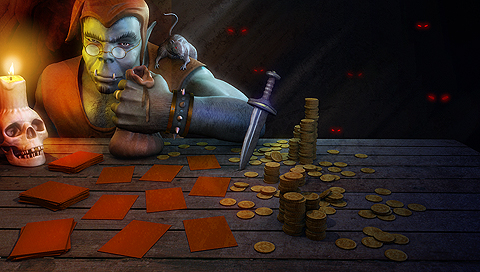
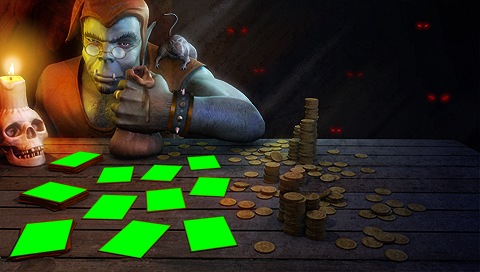
Jeck - Please review. Shop antialiasing, multicolored card recieves gold texture.  * Moved shop text ("press square for other cards") etc, to ShopItems, so they rendered properly (all in one place, after AA)  * The AA is really more a proof of concept than anything else. To do it properly I'd need a

diff --git a/projects/mtg/src/CardGui.cpp b/projects/mtg/src/CardGui.cpp
@@ -115,17 +115,28 @@ void CardGui::Render()
 
 JQuad * CardGui::alternateThumbQuad(MTGCard * card){
   JQuad * q;
-  switch(card->getColor())
-    {
-    case Constants::MTG_COLOR_ARTIFACT  : q = resources.RetrieveTempQuad("artifact_thumb.jpg");break;
-    case Constants::MTG_COLOR_GREEN: q = resources.RetrieveTempQuad("green_thumb.jpg");break;
-    case Constants::MTG_COLOR_BLUE : q = resources.RetrieveTempQuad("blue_thumb.jpg");break;
-    case Constants::MTG_COLOR_RED  : q = resources.RetrieveTempQuad("red_thumb.jpg");break;
-    case Constants::MTG_COLOR_BLACK: q = resources.RetrieveTempQuad("black_thumb.jpg");break;
-    case Constants::MTG_COLOR_WHITE: q = resources.RetrieveTempQuad("white_thumb.jpg");break;
-    case Constants::MTG_COLOR_LAND  : q = resources.RetrieveTempQuad("land_thumb.jpg");break;
-    default: q = resources.RetrieveTempQuad("black_thumb.jpg");break;
-    }
+  int nb_colors = 0;
+  for(int i=0;i<Constants::MTG_NB_COLORS;i++){
+    if(card->colors[i])
+      nb_colors++;
+  }
+
+  if(nb_colors > 1){
+    q = resources.RetrieveTempQuad("gold_thumb.jpg");
+  }
+  else{
+    switch(card->getColor())
+      {
+      case Constants::MTG_COLOR_ARTIFACT  : q = resources.RetrieveTempQuad("artifact_thumb.jpg");break;
+      case Constants::MTG_COLOR_GREEN: q = resources.RetrieveTempQuad("green_thumb.jpg");break;
+      case Constants::MTG_COLOR_BLUE : q = resources.RetrieveTempQuad("blue_thumb.jpg");break;
+      case Constants::MTG_COLOR_RED  : q = resources.RetrieveTempQuad("red_thumb.jpg");break;
+      case Constants::MTG_COLOR_BLACK: q = resources.RetrieveTempQuad("black_thumb.jpg");break;
+      case Constants::MTG_COLOR_WHITE: q = resources.RetrieveTempQuad("white_thumb.jpg");break;
+      case Constants::MTG_COLOR_LAND  : q = resources.RetrieveTempQuad("land_thumb.jpg");break;
+      default: q = resources.RetrieveTempQuad("gold_thumb.jpg");break;
+      }
+  }
   if(q && q->mTex)
     q->SetHotSpot(q->mTex->mWidth/2,q->mTex->mHeight/2);
   return q;
@@ -135,17 +146,28 @@ void CardGui::alternateRender(MTGCard * card, const Pos& pos){
   // Draw the "unknown" card model
   JRenderer * renderer = JRenderer::GetInstance();
   JQuad * q;
-  switch(card->getColor())
-    {
-    case Constants::MTG_COLOR_ARTIFACT: q = resources.RetrieveTempQuad("artifact.jpg");break;
-    case Constants::MTG_COLOR_GREEN: q = resources.RetrieveTempQuad("green.jpg");break;
-    case Constants::MTG_COLOR_BLUE : q = resources.RetrieveTempQuad("blue.jpg");break;
-    case Constants::MTG_COLOR_RED  : q = resources.RetrieveTempQuad("red.jpg");break;
-    case Constants::MTG_COLOR_BLACK: q = resources.RetrieveTempQuad("black.jpg");break;
-    case Constants::MTG_COLOR_WHITE: q = resources.RetrieveTempQuad("white.jpg");break;
-    case Constants::MTG_COLOR_LAND: q = resources.RetrieveTempQuad("land.jpg");break;
-    default: q = resources.RetrieveTempQuad("black.jpg");break;
-    }
+  int nb_colors = 0;
+  for(int i=0;i<Constants::MTG_NB_COLORS;i++){
+    if(card->colors[i])
+      nb_colors++;
+  }
+
+  if(nb_colors > 1){
+    q = resources.RetrieveTempQuad("gold.jpg");
+  }
+  else{
+    switch(card->getColor())
+      {
+      case Constants::MTG_COLOR_ARTIFACT: q = resources.RetrieveTempQuad("artifact.jpg");break;
+      case Constants::MTG_COLOR_GREEN: q = resources.RetrieveTempQuad("green.jpg");break;
+      case Constants::MTG_COLOR_BLUE : q = resources.RetrieveTempQuad("blue.jpg");break;
+      case Constants::MTG_COLOR_RED  : q = resources.RetrieveTempQuad("red.jpg");break;
+      case Constants::MTG_COLOR_BLACK: q = resources.RetrieveTempQuad("black.jpg");break;
+      case Constants::MTG_COLOR_WHITE: q = resources.RetrieveTempQuad("white.jpg");break;
+      case Constants::MTG_COLOR_LAND: q = resources.RetrieveTempQuad("land.jpg");break;
+      default: q = resources.RetrieveTempQuad("gold.jpg");break;
+      }
+  }
   if(q && q->mTex){
    q->SetHotSpot(q->mTex->mWidth/2,q->mTex->mHeight/2);
 

diff --git a/projects/mtg/src/ShopItem.cpp b/projects/mtg/src/ShopItem.cpp
@@ -8,17 +8,17 @@
 
 
 
-  float ShopItems::_x1[] = { 79, 20, 27,103,154,187,102,145,199,133,183};
-  float ShopItems::_y1[] = {150,193,222,167,164,156,195,190,176,220,220};
+  float ShopItems::_x1[] = { 79, 19, 27,103,154,187,102,144,198,133,183};
+  float ShopItems::_y1[] = {150,194,222,167,164,156,195,190,175,220,220};
 
-  float ShopItems::_x2[] = {103, 49, 73,135,183,213,138,181,231,171,225};
-  float ShopItems::_y2[] = {155,180,218,166,166,154,195,186,177,225,216};
+  float ShopItems::_x2[] = {103, 48, 74,135,183,215,138,181,231,171,225};
+  float ShopItems::_y2[] = {155,179,218,165,166,155,195,186,177,225,216};
 
-  float ShopItems::_x3[] = { 48, 60, 10, 96,139,190, 81,146,189, 98,191};
-  float ShopItems::_y3[] = {163,202,255,183,180,170,219,212,195,250,251};
+  float ShopItems::_x3[] = { 48, 61, 9, 96,139,190, 81,146,187, 97,191};
+  float ShopItems::_y3[] = {164,205,257,184,180,170,219,212,195,251,252};
 
-  float ShopItems::_x4[] = { 74, 88, 64,131,171,221,123,187,225,141,237};
-  float ShopItems::_y4[] = {167,187,248,182,182,168,219,208,196,258,245};
+  float ShopItems::_x4[] = { 76, 90, 65,131,171,221,123,187,225,141,237};
+  float ShopItems::_y4[] = {169,188,250,182,182,168,220,208,198,259,245};
 
 
 ShopItem::ShopItem(int id, JLBFont *font, char* text, JQuad * _quad,JQuad * _thumb,  float _xy[], bool hasFocus, int _price): JGuiObject(id), mFont(font), mText(text), quad(_quad), thumb(_thumb), price(_price)
@@ -173,7 +173,6 @@ void ShopItem::Render(){
       if (card) CardGui::alternateRender(card,Pos(SCREEN_WIDTH - 105,SCREEN_HEIGHT/2 - 5,0.9f* 285/250, 0,255));
 
     }
-    mFont->DrawString(mText.c_str(),  SCREEN_WIDTH/2 - 50,  SCREEN_HEIGHT - 16,JGETEXT_CENTER);
   }
 }
 
@@ -238,6 +237,10 @@ ShopItems::ShopItems(int id, JGuiListener* listener, JLBFont* font, int x, int y
   };
   myCollection = 	 NEW DeckDataWrapper(NEW MTGDeck(options.profileFile(PLAYER_COLLECTION).c_str(), _collection));
   showCardList = true;
+
+  mBgAA = resources.RetrieveQuad("shop_aliasing.png");
+  if(mBgAA)
+    mBgAA->SetTextureRect(0,0,250,120); 
 }
 
 
@@ -296,6 +299,13 @@ void ShopItems::Update(float dt){
 
 void ShopItems::Render(){
   JGuiController::Render();
+  JRenderer * r = JRenderer::GetInstance(); 
+  
+  if (display) display->Render();
+
+  if (mBgAA) 
+    r->RenderQuad(mBgAA,0,SCREEN_HEIGHT-128);
+
   if (showPriceDialog==-1){
 
   }else{
@@ -303,16 +313,29 @@ void ShopItems::Render(){
       dialog->Render();
     }
   }
+
+  mFont->SetColor(ARGB(255,255,255,255));
+  char c[4096];
+  r->FillRect(0,SCREEN_HEIGHT-17,SCREEN_WIDTH,17,ARGB(128,0,0,0));
+  sprintf(c, _("[]:other cards /\\:list").c_str());
+  unsigned int len = 4 + mFont->GetStringWidth(c);
+  mFont->DrawString(c,SCREEN_WIDTH-len,SCREEN_HEIGHT-14);
+
   char credits[512];
   sprintf(credits,_("credits: %i").c_str(), playerdata->credits);
   mFont->SetColor(ARGB(200,0,0,0));
-  mFont->DrawString(credits, 5, SCREEN_HEIGHT - 13);
+  mFont->DrawString(credits, 5, SCREEN_HEIGHT - 12);
   mFont->SetColor(ARGB(255,255,255,255));
-  mFont->DrawString(credits, 5, SCREEN_HEIGHT - 15);
-  if (display) display->Render();
+  mFont->DrawString(credits, 5, SCREEN_HEIGHT - 14);
+  
+  if(mCurr >= 0){
+    mFont->SetColor(ARGB(255,255,255,0));
+    ShopItem * item = ((ShopItem *)mObjects[mCurr]);
+    mFont->DrawString(item->mText.c_str(),  SCREEN_WIDTH/2 - 50,  SCREEN_HEIGHT - 14,JGETEXT_CENTER);
+    mFont->SetColor(ARGB(255,255,255,255));
+  }
 
   if (showCardList){
-    JRenderer * r = JRenderer::GetInstance(); 
     r->FillRoundRect(290,5, 160, mCount * 20 + 15,5,ARGB(200,0,0,0));
    
     for (int i = 0; i< mCount; ++i){
@@ -448,6 +471,7 @@ ShopItems::~ShopItems(){
   SAFE_DELETE(dialog);
   safeDeleteDisplay();
   SAFE_DELETE(myCollection);
+  resources.Release(mBgAA);
 }
 
 ostream& ShopItem::toString(ostream& out) const

diff --git a/projects/mtg/src/GameStateShop.cpp b/projects/mtg/src/GameStateShop.cpp
@@ -26,8 +26,6 @@ void GameStateShop::Create(){
 void GameStateShop::Start()
 {
   menu = NULL;
-  menuFont = resources.GetJLBFont(Constants::MENU_FONT);
-  itemFont = resources.GetJLBFont(Constants::MAIN_FONT);
 
 
   mStage = STAGE_SHOP_SHOP;
@@ -42,9 +40,13 @@ void GameStateShop::Start()
   altThumb[4] = resources.RetrieveTexture("black_thumb.jpg", RETRIEVE_LOCK);
   altThumb[5] = resources.RetrieveTexture("white_thumb.jpg", RETRIEVE_LOCK);
   altThumb[6] = resources.RetrieveTexture("land_thumb.jpg", RETRIEVE_LOCK);
+  altThumb[7] = resources.RetrieveTexture("gold_thumb.jpg", RETRIEVE_LOCK);
 
   mBg = resources.RetrieveQuad("shop.jpg");
   mBack = resources.GetQuad("back");
+
+  menuFont = resources.GetJLBFont(Constants::MENU_FONT);
+  itemFont = resources.GetJLBFont(Constants::MAIN_FONT);
 
   JRenderer::GetInstance()->ResetPrivateVRAM();
   JRenderer::GetInstance()->EnableVSync(true);
@@ -128,7 +130,7 @@ void GameStateShop::End()
   resources.Release(bgTexture);
 
   //Release alternate thumbnails.
-  for(int i=0;i<7;i++){
+  for(int i=0;i<8;i++){
     resources.Release(altThumb[i]);
   }
 
@@ -169,23 +171,14 @@ void GameStateShop::Render()
   //Erase
   JRenderer * r = JRenderer::GetInstance();
   r->ClearScreen(ARGB(0,0,0,0));
-  if (mBg)JRenderer::GetInstance()->RenderQuad(mBg,0,0);
-
-  itemFont->SetColor(ARGB(255,255,255,255));
-  char c[4096];
-  r->FillRect(0,SCREEN_HEIGHT-17,SCREEN_WIDTH,17,ARGB(128,0,0,0));
-  sprintf(c, _("[]:other cards /\\:list").c_str());
-  unsigned int len = 4 + itemFont->GetStringWidth(c);
-  itemFont->DrawString(c,SCREEN_WIDTH-len,SCREEN_HEIGHT-12);
+  if (mBg) r->RenderQuad(mBg,0,0);
 
   if (shop)
     shop->Render();
 
-
   if (mStage == STAGE_SHOP_MENU && menu){
     menu->Render();
   }
-
 }
 
 void GameStateShop::ButtonPressed(int controllerId, int controlId)

diff --git a/projects/mtg/include/ShopItem.h b/projects/mtg/include/ShopItem.h
@@ -19,6 +19,7 @@ class hgeDistortionMesh;
 
 class ShopItem:public JGuiObject{
  private:
+  friend class ShopItems;
   bool mHasFocus;
   bool mRelease;
   JLBFont *mFont;
@@ -58,6 +59,7 @@ class ShopItems:public JGuiController,public JGuiListener{
   PriceList * pricelist;
   int  mX, mY, mHeight;
   JLBFont* mFont;
+  JQuad * mBgAA;
   MTGAllCards * collection;
   SimpleMenu * dialog;
   int showPriceDialog;

diff --git a/projects/mtg/include/GameStateShop.h b/projects/mtg/include/GameStateShop.h
@@ -23,7 +23,7 @@ class GameStateShop: public GameState, public JGuiListener
   JLBFont * itemFont;
   JQuad * mBg;
   JTexture * bgTexture;
-  JTexture * altThumb[7];
+  JTexture * altThumb[8];
   JQuad * mBack;
   SimpleMenu * menu;
   int mStage;
